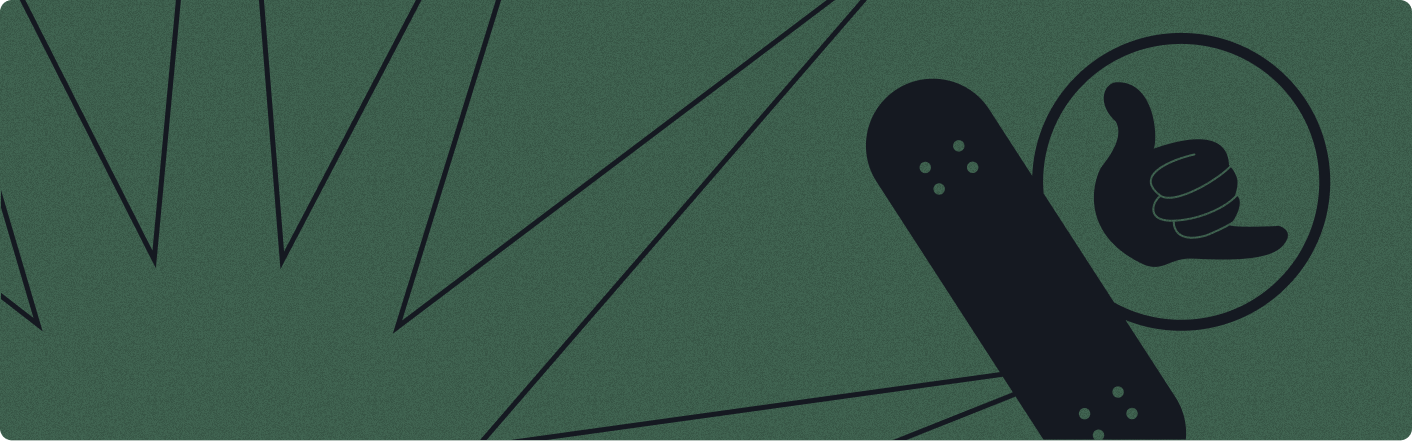
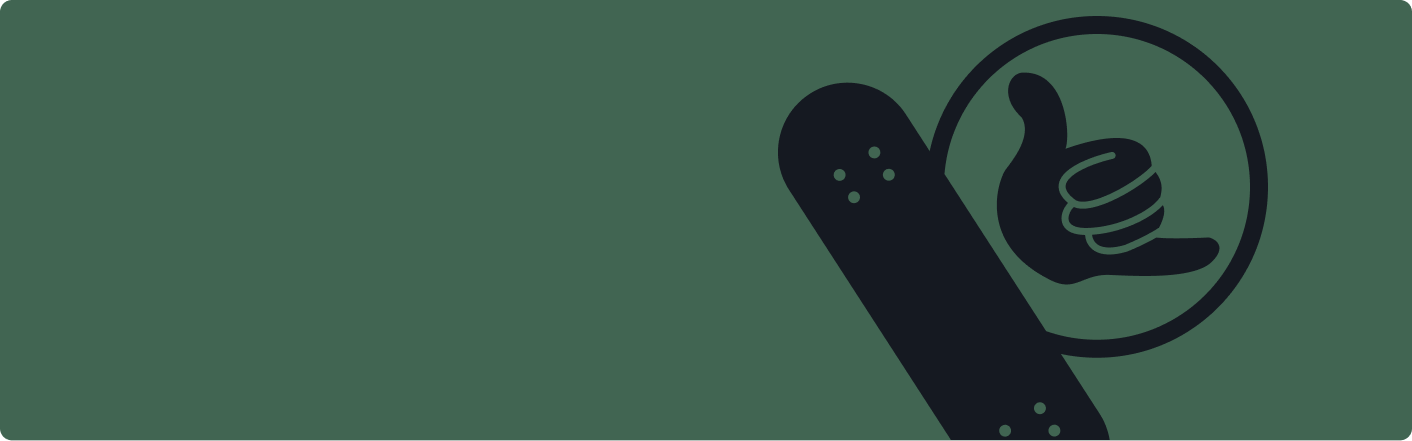
куда несешься ты код, дай ответ. не дает ответа

diff --git a/app/javascript/components/A_Delete_Button.js b/app/javascript/components/A_Delete_Button.js
@@ -1,0 +1,22 @@
+import React from "react"
+import PropTypes from "prop-types"
+class A_Delete_Button extends React.Component {
+  render () {
+    return (
+      <React.Fragment>
+        <svg onClick={() => this.props.onClick}width="48" height="47" viewBox="0 0 48 47" fill="none" xmlns="http://www.w3.org/2000/svg">
+          <path d="M41.9999 4.7998H8.3999C5.08619 4.7998 2.3999 7.4861 2.3999 10.7998V40.7998C2.3999 44.1135 5.08619 46.7998 8.3999 46.7998H41.9999C45.3136 46.7998 47.9999 44.1135 47.9999 40.7998V10.7998C47.9999 7.4861 45.3136 4.7998 41.9999 4.7998Z" fill="#222222"/>
+          <path d="M39.6 0.5H6C2.96243 0.5 0.5 2.96243 0.5 6V37.2C0.5 40.2376 2.96243 42.7 6 42.7H39.6C42.6376 42.7 45.1 40.2376 45.1 37.2V6C45.1 2.96243 42.6376 0.5 39.6 0.5Z" fill="#F8F5F1"/>
+          <path d="M39.6 0.5H6C2.96243 0.5 0.5 2.96243 0.5 6V37.2C0.5 40.2376 2.96243 42.7 6 42.7H39.6C42.6376 42.7 45.1 40.2376 45.1 37.2V6C45.1 2.96243 42.6376 0.5 39.6 0.5Z" stroke="#222222"/>
+          <path d="M20.0835 25.125V21.5" stroke="#B35B58" stroke-width="2" stroke-linecap="round"/>
+          <path d="M24.9165 25.125V21.5" stroke="#B35B58" stroke-width="2" stroke-linecap="round"/>
+          <path d="M11.625 15.458H12.2292M33.375 15.458H32.7708M32.7708 15.458C31.8194 15.458 31.3437 15.458 30.9695 15.6166C30.4916 15.8191 30.1111 16.1996 29.9086 16.6775C29.75 17.0517 29.75 17.5274 29.75 18.4788V27.1663C29.75 29.052 29.75 29.9948 29.1642 30.5806C28.5784 31.1663 27.6356 31.1663 25.75 31.1663H19.25C17.3644 31.1663 16.4216 31.1663 15.8358 30.5806C15.25 29.9948 15.25 29.052 15.25 27.1663V18.4788C15.25 17.5274 15.25 17.0517 15.0914 16.6775C14.8889 16.1996 14.5084 15.8191 14.0305 15.6166C13.6563 15.458 13.1806 15.458 12.2292 15.458M32.7708 15.458H12.2292" stroke="#B35B58" stroke-width="2" stroke-linecap="round" stroke-linejoin="round"/>
+          <path d="M20.1655 11.0728C20.3032 10.9443 20.6066 10.8308 21.0287 10.7498C21.4507 10.6689 21.9678 10.625 22.4998 10.625C23.0318 10.625 23.549 10.6689 23.971 10.7498C24.3931 10.8308 24.6965 10.9443 24.8342 11.0728" stroke="#B35B58" stroke-width="2" stroke-linecap="round"/>
+        </svg>
+
+      </React.Fragment>
+    );
+  }
+}
+
+export default A_Delete_Button

diff --git a/app/javascript/components/Spots_Table.js b/app/javascript/components/Spots_Table.js
@@ -1,6 +1,8 @@
 import React from "react"
 import PropTypes from "prop-types"
 import M_Filter from "./M_Filter";
+import A_Delete_Button from "./A_Delete_Button";
+import A_Edit_Button from "./A_Edit_Button";
 class Spots_Table extends React.Component {
   render () {
     return (
@@ -32,15 +34,15 @@ class Spots_Table extends React.Component {
               <td className="cell-center">{spot.price && spot.works ? '✅' : '❌'}</td>
               <td className="cell-center">{spot.image ? '✅' : '❌'}</td>
               <td className="cell-center">
-                <button style={{ marginRight: '10px' }}
-                onClick={() => location.href = `http://127.0.0.1:3000/spots/${spot.id}/edit`}>Изменить</button>
+                <A_Edit_Button
+                onClick={() => location.href = `http://127.0.0.1:3000/spots/${spot.id}/edit`}/>
                  <a 
                   data-confirm="Are you sure?" 
-                  style={{ marginRight: '10px' }} 
+                  style={{ marginLeft: '10px' }} 
                   rel="nofollow" 
                   data-method="delete" 
                   href={`http://127.0.0.1:3000/spots/${spot.id}`}>
-                Удалить
+                <A_Delete_Button />
                 </a>
               </td>
             </tr>

diff --git a/app/javascript/components/Posts_Table.js b/app/javascript/components/Posts_Table.js
@@ -1,6 +1,8 @@
 import React from "react"
 import PropTypes from "prop-types"
 import M_Filter from "./M_Filter";
+import A_Delete_Button from "./A_Delete_Button";
+import A_Edit_Button from "./A_Edit_Button";
 class Posts_Table extends React.Component {
   constructor(props) {
     super(props);
@@ -35,15 +37,15 @@ class Posts_Table extends React.Component {
               <td className="cell-center">{post.equipment}</td>
               <td className="cell-center">{post.image? '✅' : '❌'}</td>
               <td className="cell-center">
-                <button style={{ marginRight: '10px' }}
-                onClick={() => location.href = `http://127.0.0.1:3000/posts/${post.id}/edit`}>Изменить</button>
+                <A_Edit_Button
+                onClick={() => location.href = `http://127.0.0.1:3000/posts/${post.id}/edit`}/>
                <a 
                   data-confirm="Are you sure?" 
-                  style={{ marginRight: '10px' }} 
+                  style={{ marginLeft: '10px' }} 
                   rel="nofollow" 
                   data-method="delete" 
                   href={`http://127.0.0.1:3000/posts/${post.id}`}>
-                Удалить
+                <A_Delete_Button />
                 </a>
               </td>
             </tr>

diff --git a/app/javascript/components/Events_Table.js b/app/javascript/components/Events_Table.js
@@ -1,5 +1,7 @@
 import React from "react"
-import PropTypes from "prop-types"
+import PropTypes from "prop-types";
+import A_Delete_Button from "./A_Delete_Button";
+import A_Edit_Button from "./A_Edit_Button";
 class Events_Table extends React.Component {
   render () {
     return (
@@ -31,15 +33,15 @@ class Events_Table extends React.Component {
               <td className="cell-center">{event.time}</td>
               <td className="cell-center">✅</td>
               <td className="cell-center">
-                <button style={{ marginRight: '10px' }}
-                onClick={() => location.href = `http://127.0.0.1:3000/events/${event.id}/edit`}>Изменить</button>
+                <A_Edit_Button
+                onClick={() => location.href = `http://127.0.0.1:3000/events/${event.id}/edit`}/>
                <a 
                   data-confirm="Are you sure?" 
-                  style={{ marginRight: '10px' }} 
+                  style={{ marginLeft: '10px' }} 
                   rel="nofollow" 
                   data-method="delete" 
                   href={`http://127.0.0.1:3000/events/${event.id}`}>
-                Удалить
+                <A_Delete_Button />
                 </a>  
               </td>
             </tr>

diff --git a/app/javascript/components/Categories_Table.js b/app/javascript/components/Categories_Table.js
@@ -1,6 +1,8 @@
 import React from "react"
 import PropTypes from "prop-types"
 import A_Button from "./A_Button";
+import A_Delete_Button from "./A_Delete_Button";
+import A_Edit_Button from "./A_Edit_Button";
 class Categories_Table extends React.Component {
   render () {
     return (
@@ -40,15 +42,15 @@ class Categories_Table extends React.Component {
               <td className="cell-center"></td>
               <td className="cell-center"></td>
               <td className="cell-center">
-              <button style={{ marginRight: '10px' }}
-                onClick={() => location.href = `http://127.0.0.1:3000/categories/${category.id}/edit`}>Edit</button>
+              <A_Edit_Button
+                onClick={() => location.href = `http://127.0.0.1:3000/categories/${category.id}/edit`} />
                 <a 
                   data-confirm="Are you sure?" 
-                  style={{ marginRight: '10px' }} 
+                  style={{ marginLeft: '10px' }} 
                   rel="nofollow" 
                   data-method="delete" 
                   href={`http://127.0.0.1:3000/categories/${category.id}`}>
-                Удалить
+                <A_Delete_Button />
                 </a>
               </td>
             </tr>

diff --git a/app/javascript/components/Types_Table.js b/app/javascript/components/Types_Table.js
@@ -1,6 +1,8 @@
 import React from "react"
 import PropTypes from "prop-types"
 import A_Button from "./A_Button";
+import A_Edit_Button from "./A_Edit_Button";
+import A_Delete_Button from "./A_Delete_Button";
 class Types_Table extends React.Component {
   render () {
     return (
@@ -40,15 +42,15 @@ class Types_Table extends React.Component {
               <td className="cell-center"></td>
               <td className="cell-center"></td>
               <td className="cell-center">
-              <button style={{ marginRight: '10px' }}
-                onClick={() => location.href = `http://127.0.0.1:3000/types/${type.id}/edit`}>Edit</button>
+              <A_Edit_Button
+                onClick={() => location.href = `http://127.0.0.1:3000/types/${type.id}/edit`} />
                 <a 
                   data-confirm="Are you sure?" 
-                  style={{ marginRight: '10px' }} 
+                  style={{ marginLeft: '10px' }} 
                   rel="nofollow" 
                   data-method="delete" 
                   href={`http://127.0.0.1:3000/types/${type.id}`}>
-                Удалить
+                <A_Delete_Button/>
                 </a>
               </td>
             </tr>

diff --git a/app/javascript/components/Spots_Page.js b/app/javascript/components/Spots_Page.js
@@ -5,8 +5,8 @@ import Spots_Table from "./Spots_Table";
 import O_SpotCard from "./O_SpotCard";
 import Banner_Fav from "./Banner_Fav";
 import O_Navbar from "./O_Navbar";
-import img1 from '../../assets/images/MBanner.png'
-import img2 from '../../assets/images/SBanner.png'
+import img1 from '../../assets/images/M_Banner_Wide.png'
+import img2 from '../../assets/images/M_Banner.png'
 import A_Button from "./A_Button";
 import A_Input from "./A_Input";
 class Spots_Page extends React.Component {

diff --git a/app/javascript/components/Main_Page.js b/app/javascript/components/Main_Page.js
@@ -4,7 +4,7 @@ import O_SpotCard from "./O_SpotCard";
 import O_EventCard from "./O_EventCard";
 import O_PostCard from "./O_PostCard";
 import Banner_Fav from "./Banner_Fav";
-import img2 from '../../assets/images/SBanner.png'
+import img2 from '../../assets/images/M_Banner.png'
 import image from '../../assets/images/A_BannerMask.png'
 class Main_Page extends React.Component {
   render () {

diff --git a/app/assets/stylesheets/users.scss b/app/assets/stylesheets/users.scss
@@ -119,8 +119,8 @@
      }
  }
  .cool-bg {
-     position: absolute;
-     top: 0;
-     right: 0;
+     position: relative;
+     top: -50px;
+     left: -50px;
      z-index: -1;
  }
